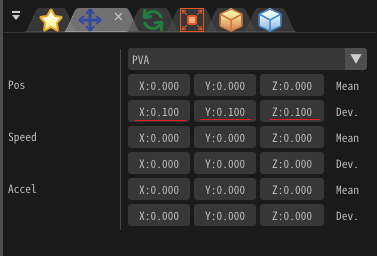
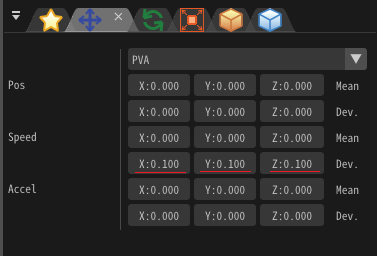
1.43c

diff --git a/Help_Tool/ja/overview.html b/Help_Tool/ja/overview.html
@@ -367,6 +367,12 @@ OTHER DEALINGS IN THE FONT SOFTWARE.
 
     <h2>更新履歴</h2>
 
+    <h3>1.43c（19/05/13）</h3>
+    <li>ユーザー名が日本語の時にモデルファイルの読み込みに失敗する不具合の修正(Win)</li>
+
+    <h3>1.43b（19/03/12）</h3>
+    <li>ファイルを開いた後に画面サイズを変えるとアイコンの画像が消える不具合の修正(Mac)</li>
+
     <h3>1.43（19/03/02）</h3>
     <li>0フレーム目に生成された軌跡とリボンの挙動がおかしい不具合の修正</li>
     <li>SSEのバッファオーバーランでクラッシュする不具合の修正</li>
@@ -389,9 +395,6 @@ OTHER DEALINGS IN THE FONT SOFTWARE.
     <li>閉じるボタンを複数回クリックすると複数ウインドウが表示される不具合を修正</li>
     <li>他のアプリケーションで開いているファイルに対して録画しようとすると落ちる不具合を修正</li>
     <li>Macでの録画の不具合を修正</li>
-
-    <h3>1.42b（18/09/25）</h3>
-    <li>不具合修正：コマンドラインに関する様々な不具合の修正</li>
 
     <h3>1.42b（18/09/25）</h3>
     <li>不具合修正：コマンドラインに関する様々な不具合の修正</li>

diff --git a/en/download.html b/en/download.html
@@ -101,10 +101,10 @@
           </p>
           <img src="/images/download/icon_tool.png">
           <p>
-            <a href="http://effekseer.sakura.ne.jp/Releases/Effekseer143Win.zip">Download (Win,1.43)</a>
+            <a href="http://effekseer.sakura.ne.jp/Releases/Effekseer143cWin.zip">Download (Win,1.43c)</a>
           </p>
           <p>
-            <a href="http://effekseer.sakura.ne.jp/Releases/Effekseer143bMac.zip">Download (Mac,1.43b)</a>
+            <a href="http://effekseer.sakura.ne.jp/Releases/Effekseer143cMac.zip">Download (Mac,1.43c)</a>
           </p>
         </div>
         <div class="download_contents">
@@ -218,7 +218,14 @@
               <td>
                 1.43
               </td>
-              <td></td>
+              <td>
+                <p>
+                  <a href="http://effekseer.sakura.ne.jp/Releases/Effekseer143Win.zip">Download</a>
+                </p>
+                <p>
+                  <a href="http://effekseer.sakura.ne.jp/Releases/Effekseer143bMac.zip">Download</a>
+                </p>
+              </td>
               <td></td>
               <td></td>
               <td></td>

diff --git a/jp/download.html b/jp/download.html
@@ -101,10 +101,10 @@
           </p>
           <img src="/images/download/icon_tool.png">
           <p>
-            <a href="http://effekseer.sakura.ne.jp/Releases/Effekseer143Win.zip">Download (Win,1.43)</a>
+            <a href="http://effekseer.sakura.ne.jp/Releases/Effekseer143cWin.zip">Download (Win,1.43c)</a>
           </p>
           <p>
-            <a href="http://effekseer.sakura.ne.jp/Releases/Effekseer143bMac.zip">Download (Mac,1.43b)</a>
+            <a href="http://effekseer.sakura.ne.jp/Releases/Effekseer143cMac.zip">Download (Mac,1.43c)</a>
           </p>
         </div>
         <div class="download_contents">
@@ -218,7 +218,14 @@
               <td>
                 1.43
               </td>
-              <td></td>
+              <td>
+                <p>
+                  <a href="http://effekseer.sakura.ne.jp/Releases/Effekseer143Win.zip">Download</a>
+                </p>
+                <p>
+                  <a href="http://effekseer.sakura.ne.jp/Releases/Effekseer143bMac.zip">Download</a>
+                </p>
+              </td>
               <td></td>
               <td></td>
               <td></td>

diff --git a/zh-tw/download.html b/zh-tw/download.html
@@ -101,10 +101,10 @@
           </p>
           <img src="/images/download/icon_tool.png">
           <p>
-            <a href="http://effekseer.sakura.ne.jp/Releases/Effekseer143Win.zip">Download (Win,1.43)</a>
+            <a href="http://effekseer.sakura.ne.jp/Releases/Effekseer143cWin.zip">Download (Win,1.43c)</a>
           </p>
           <p>
-            <a href="http://effekseer.sakura.ne.jp/Releases/Effekseer143bMac.zip">Download (Mac,1.43b)</a>
+            <a href="http://effekseer.sakura.ne.jp/Releases/Effekseer143cMac.zip">Download (Mac,1.43c)</a>
           </p>
         </div>
         <div class="download_contents">
@@ -218,7 +218,14 @@
               <td>
                 1.43
               </td>
-              <td></td>
+              <td>
+                <p>
+                  <a href="http://effekseer.sakura.ne.jp/Releases/Effekseer143Win.zip">Download</a>
+                </p>
+                <p>
+                  <a href="http://effekseer.sakura.ne.jp/Releases/Effekseer143bMac.zip">Download</a>
+                </p>
+              </td>
               <td></td>
               <td></td>
               <td></td>

diff --git a/Help_Tool/en/ToolTutorial/10.html b/Help_Tool/en/ToolTutorial/10.html
@@ -200,15 +200,20 @@ Effect
 </tr>
 <tr class="odd">
 <td style="text-align: left;">Spawning method</td>
+<td style="text-align: left;">Axis Direction</td>
+<td style="text-align: left;">Y-Axis</td>
+</tr>
+<tr class="even">
+<td style="text-align: left;">Spawning method</td>
 <td style="text-align: left;">Verticies</td>
 <td style="text-align: left;">32</td>
 </tr>
-<tr class="even">
+<tr class="odd">
 <td style="text-align: left;">Spawning method</td>
 <td style="text-align: left;">Radius(Mean)</td>
 <td style="text-align: left;">4</td>
 </tr>
-<tr class="odd">
+<tr class="even">
 <td style="text-align: left;">Spawning method</td>
 <td style="text-align: left;">Spwan Mode</td>
 <td style="text-align: left;">Clockwise</td>

diff --git a/jp/index.html b/jp/index.html
@@ -138,16 +138,16 @@
           News
         </h2>
         <p>
-          2019.05.13 Effekseer for Unity is updated.
+          2019.05.14 Effekseer 1.43cバージョンが公開されました。
+        </p>
+        <p>
+          2019.05.13 EffekseerForUnityをバージョンアップしました。
         </p>
         <p>
           2019.05.01 EffekseerForUnity, UE4をバージョンアップしました。
         </p>
         <p>
           2019.03.17 Effekseer 1.43bバージョンが公開されました。
-        </p>
-        <p>
-          2019.03.02 Effekseer 1.43バージョンが公開されました。
         </p>
         <a href="releasenote.html">リリースノート</a>
         <h2>

diff --git a/Help_Tool/ja/ToolTutorial/10.html b/Help_Tool/ja/ToolTutorial/10.html
@@ -199,15 +199,20 @@
 </tr>
 <tr class="odd">
 <td style="text-align: left;">生成方法</td>
+<td style="text-align: left;">軸方向</td>
+<td style="text-align: left;">Y軸</td>
+</tr>
+<tr class="even">
+<td style="text-align: left;">生成方法</td>
 <td style="text-align: left;">分割数</td>
 <td style="text-align: left;">32</td>
 </tr>
-<tr class="even">
+<tr class="odd">
 <td style="text-align: left;">生成方法</td>
 <td style="text-align: left;">半径(中心)</td>
 <td style="text-align: left;">4</td>
 </tr>
-<tr class="odd">
+<tr class="even">
 <td style="text-align: left;">生成方法</td>
 <td style="text-align: left;">生成位置種類</td>
 <td style="text-align: left;">正順</td>

diff --git a/Help_Tool/en/ToolTutorial/07.html b/Help_Tool/en/ToolTutorial/07.html
@@ -171,13 +171,13 @@ Rotation
 </tr>
 <tr class="even">
 <td style="text-align: left;">Render Settings</td>
-<td style="text-align: left;">ColorAll(Mean)</td>
-<td style="text-align: left;">255,191,192,255</td>
+<td style="text-align: left;">ColorAll(Min)</td>
+<td style="text-align: left;">255,177,177,255</td>
 </tr>
 <tr class="odd">
 <td style="text-align: left;">Render Settings</td>
-<td style="text-align: left;">ColorAll(Deviation)</td>
-<td style="text-align: left;">0,64,64,0</td>
+<td style="text-align: left;">ColorAll(Max)</td>
+<td style="text-align: left;">255,255,255,255</td>
 </tr>
 </tbody>
 </table>

diff --git a/Help_Tool/ja/ToolTutorial/07.html b/Help_Tool/ja/ToolTutorial/07.html
@@ -171,13 +171,13 @@
 </tr>
 <tr class="even">
 <td style="text-align: left;">描画</td>
-<td style="text-align: left;">全体色(中心)</td>
-<td style="text-align: left;">255,191,192,255</td>
+<td style="text-align: left;">全体色(最小)</td>
+<td style="text-align: left;">255,127,127,255</td>
 </tr>
 <tr class="odd">
 <td style="text-align: left;">描画</td>
-<td style="text-align: left;">全体色(振幅)</td>
-<td style="text-align: left;">0,64,64,0</td>
+<td style="text-align: left;">全体色(最大)</td>
+<td style="text-align: left;">255,255,255,255</td>
 </tr>
 </tbody>
 </table>

diff --git a/Help_Tool/ja/ToolTutorial/02.html b/Help_Tool/ja/ToolTutorial/02.html
@@ -85,14 +85,14 @@ xの数値を変更
 位置・速度・加速度
 </p>
 </div>
-<p>x方向の速度に0.1と入力しましょう。</p>
+<p>x方向の速度(中心)に0.1と入力しましょう。</p>
 <div data-align="center">
 <img src="../../img/Tutorial/02_pva_input_ja.png">
 <p>
 位置・速度・加速度
 </p>
 </div>
-<p>そうすると、高速に画面外に飛び出すようになりました。</p>
+<p>そうすると、画面外に飛び出すようになりました。</p>
 <div data-align="center">
 <img src="../../img/Tutorial/02_pva.gif">
 <p>

diff --git a/Help_Tool/en/overview.html b/Help_Tool/en/overview.html
@@ -368,6 +368,12 @@ OTHER DEALINGS IN THE FONT SOFTWARE.
     
     <h2>Change log</h2>
 
+    <h3>1.43c（19/05/13）</h3>
+    <li>Fixed a bug that fails to read model file when user name is Japanese (Win)</li>
+
+    <h3>1.43b（19/03/12）</h3>
+    <li>Fixed a bug that the icon image disappears when changing the screen size after opening the file(Mac)</li>
+
     <h3>1.43（19/03/02）</h3>
     <li>Fixed bug that the behavior of the ribbon and track generated with the 0th frame is wrong</li>
     <li>Fixed bug that SSE buffer overrun crashes</li>

diff --git a/Help_Tool/en/ToolTutorial/02.html b/Help_Tool/en/ToolTutorial/02.html
@@ -85,14 +85,14 @@ Move to the outside
 Position, Velocity, Accelaration
 </p>
 </div>
-<p>Let’s enter 0.1 in the x direction velocity.</p>
+<p>Let’s enter 0.1 in the x direction speed(Mean).</p>
 <div data-align="center">
 <img src="../../img/Tutorial/02_pva_input_en.png">
 <p>
 Position, Velocity, acceleration
 </p>
 </div>
-<p>Then, the particle began to jump out of the screen at high speed.</p>
+<p>Then, the particle began to jump out of the screen.</p>
 <div data-align="center">
 <img src="../../img/Tutorial/02_pva.gif">
 <p>
